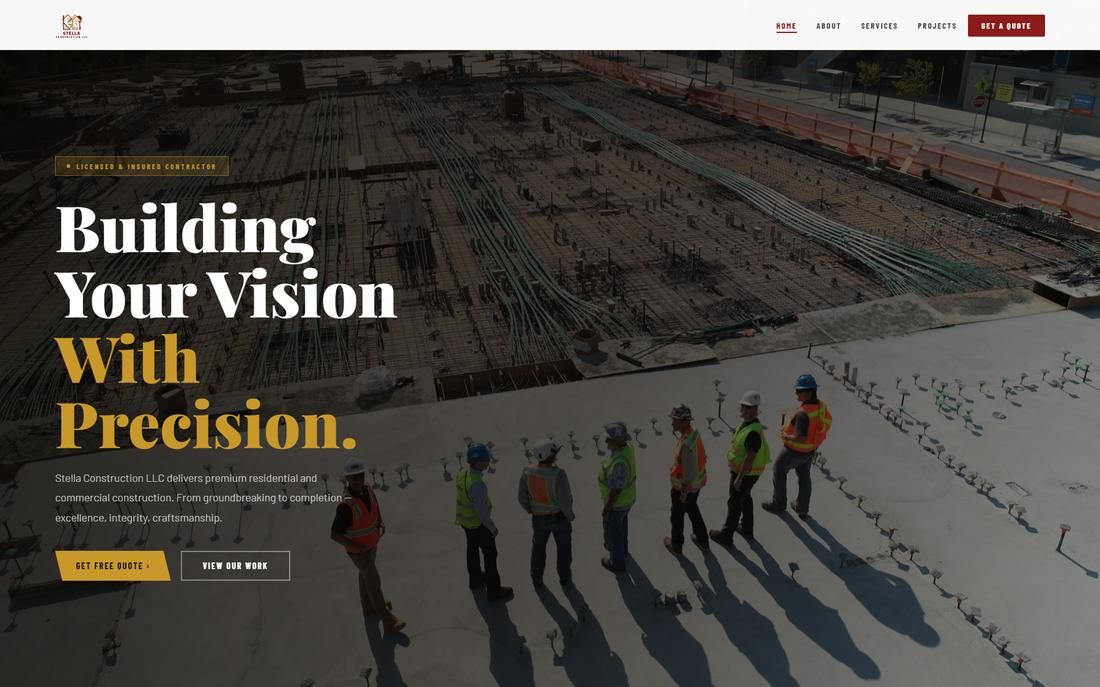
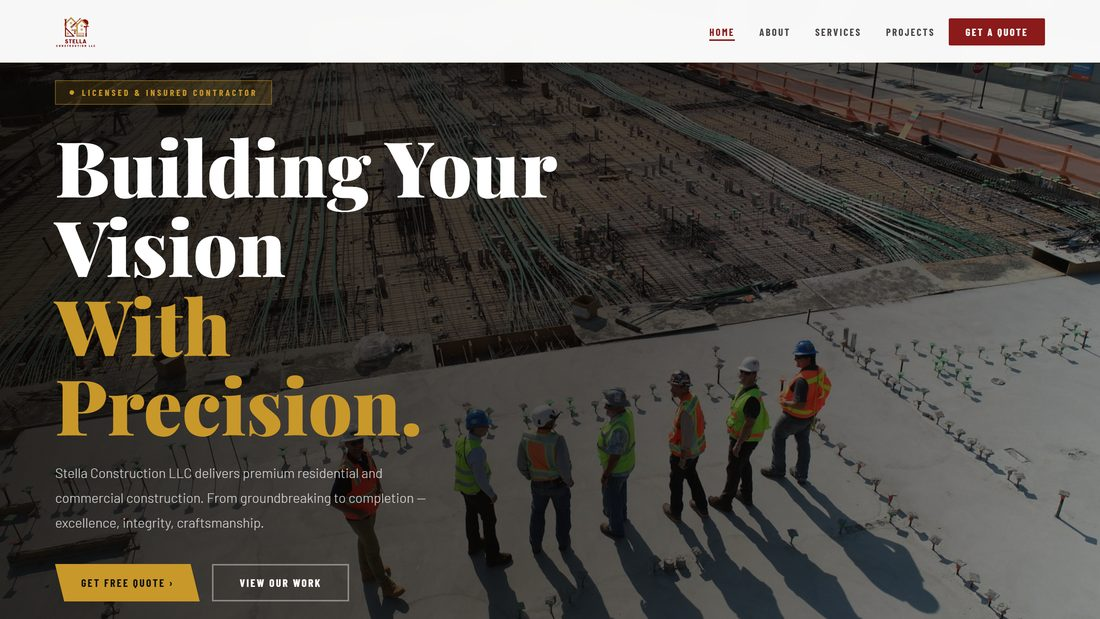
Shoot the sites at a window someone actually has
The old desktop shots were taken at 1760 CSS wide. No laptop is that wide, so
every site laid itself out for a wall and the content came out looking shrunk
inside the frame, with headlines wrapping in places they never wrap for a real
visitor. These are taken at 1440 by 810, which is a normal laptop window, and
the card frame is 16 by 9 to match, so a card now shows the page exactly as it
looks when you open it.

diff --git a/index.html b/index.html
@@ -117,8 +117,11 @@
     }
     /* Mixing the two shapes is what gives the column its rhythm. A page of
        nine identical rectangles reads as a contact sheet. */
-    .card .shot { aspect-ratio: 16 / 10; }
-    .card.tall .shot { aspect-ratio: 4 / 5; }
+    .card .shot { aspect-ratio: 16 / 9; }
+    /* Only a phone gets the tall frame, because only a phone is served the
+       phone screenshot. On a desktop every card is a desktop shot, which also
+       means every row is the same height and no card sits in a hole. */
+    @media (max-width: 899px) { .card.tall .shot { aspect-ratio: 4 / 5; } }
 
     /* ---- the one project that was reviewed in public ---- */
     .thread { display: grid; gap: 11px; max-width: 620px; }
@@ -172,7 +175,7 @@
     <a class="shot feature" href="https://buildherconstruction.com/" target="_blank" rel="noopener">
       <picture>
         <source media="(max-width: 899px)" srcset="assets/work/buildher-m.jpg" width="520" height="1125">
-        <img src="assets/work/buildher.jpg" alt="BuildHer Construction website" width="1760" height="1100" fetchpriority="high">
+        <img src="assets/work/buildher.jpg" alt="BuildHer Construction website" width="1760" height="990" fetchpriority="high">
       </picture>
     </a>
     <div class="cap">
@@ -192,7 +195,7 @@
 
       <article class="card">
         <a class="shot" href="https://olivaritennis.com/" target="_blank" rel="noopener">
-          <img src="assets/work/olivaritennis.jpg" alt="Olivari Tennis website" width="1760" height="1100">
+          <img src="assets/work/olivaritennis.jpg" alt="Olivari Tennis website" width="1100" height="619">
         </a>
         <div class="cap">
           <span class="nm">Olivari Tennis</span><span class="dash">&#8212;</span>
@@ -203,7 +206,7 @@
 
       <article class="card">
         <a class="shot" href="https://blockcycle.org/" target="_blank" rel="noopener">
-          <img src="assets/work/blockcycle.jpg" alt="Block Cycle website" width="1100" height="687" loading="lazy">
+          <img src="assets/work/blockcycle.jpg" alt="Block Cycle website" width="1100" height="619" loading="lazy">
         </a>
         <div class="cap">
           <span class="nm">Block Cycle</span><span class="dash">&#8212;</span>
@@ -214,7 +217,10 @@
 
       <article class="card tall">
         <a class="shot" href="https://pumptimeai.com/" target="_blank" rel="noopener">
-          <img src="assets/work/pumptimeai-m.jpg" alt="Pump Time AI on a phone" width="520" height="1125" loading="lazy">
+          <picture>
+            <source media="(max-width: 899px)" srcset="assets/work/pumptimeai-m.jpg" width="520" height="1125">
+            <img src="assets/work/pumptimeai.jpg" alt="Pump Time AI website" width="1100" height="619" loading="lazy">
+          </picture>
         </a>
         <div class="cap">
           <span class="nm">Pump Time AI</span><span class="dash">&#8212;</span>
@@ -225,7 +231,10 @@
 
       <article class="card tall">
         <a class="shot" href="https://stellaconstructionllc.org/" target="_blank" rel="noopener">
-          <img src="assets/work/stella-m.jpg" alt="Stella Construction on a phone" width="520" height="1125" loading="lazy">
+          <picture>
+            <source media="(max-width: 899px)" srcset="assets/work/stella-m.jpg" width="520" height="1125">
+            <img src="assets/work/stella.jpg" alt="Stella Construction website" width="1100" height="619" loading="lazy">
+          </picture>
         </a>
         <div class="cap">
           <span class="nm">Stella Construction LLC</span><span class="dash">&#8212;</span>
@@ -236,7 +245,7 @@
 
       <article class="card">
         <a class="shot" href="https://airikart.com/" target="_blank" rel="noopener">
-          <img src="assets/work/airikart.jpg" alt="Airikart website" width="1760" height="1100" loading="lazy">
+          <img src="assets/work/airikart.jpg" alt="Airikart website" width="1100" height="619" loading="lazy">
         </a>
         <div class="cap">
           <span class="nm">Airikart</span><span class="dash">&#8212;</span>
@@ -247,7 +256,7 @@
 
       <article class="card">
         <a class="shot" href="https://scalesprimeconstruction.com/" target="_blank" rel="noopener">
-          <img src="assets/work/scalesprime.jpg" alt="Scales Prime Construction website" width="1760" height="1100" loading="lazy">
+          <img src="assets/work/scalesprime.jpg" alt="Scales Prime Construction website" width="1100" height="619" loading="lazy">
         </a>
         <div class="cap">
           <span class="nm">Scales Prime Construction</span><span class="dash">&#8212;</span>
@@ -258,7 +267,10 @@
 
       <article class="card tall">
         <a class="shot" href="https://magictracker.cc/" target="_blank" rel="noopener">
-          <img src="assets/work/magictracker-m.jpg" alt="Magic Tracker on a phone" width="520" height="1125" loading="lazy">
+          <picture>
+            <source media="(max-width: 899px)" srcset="assets/work/magictracker-m.jpg" width="520" height="1125">
+            <img src="assets/work/magictracker.jpg" alt="Magic Tracker website" width="1100" height="619" loading="lazy">
+          </picture>
         </a>
         <div class="cap">
           <span class="nm">Magic Tracker</span><span class="dash">&#8212;</span>
@@ -269,7 +281,10 @@
 
       <article class="card tall">
         <a class="shot" href="https://decentcrowd.cc/" target="_blank" rel="noopener">
-          <img src="assets/work/decentcrowd-m.jpg" alt="DecentCrowd on a phone" width="520" height="1125" loading="lazy">
+          <picture>
+            <source media="(max-width: 899px)" srcset="assets/work/decentcrowd-m.jpg" width="520" height="1125">
+            <img src="assets/work/decentcrowd.jpg" alt="DecentCrowd website" width="1100" height="619" loading="lazy">
+          </picture>
         </a>
         <div class="cap">
           <span class="nm">DecentCrowd</span><span class="dash">&#8212;</span>
